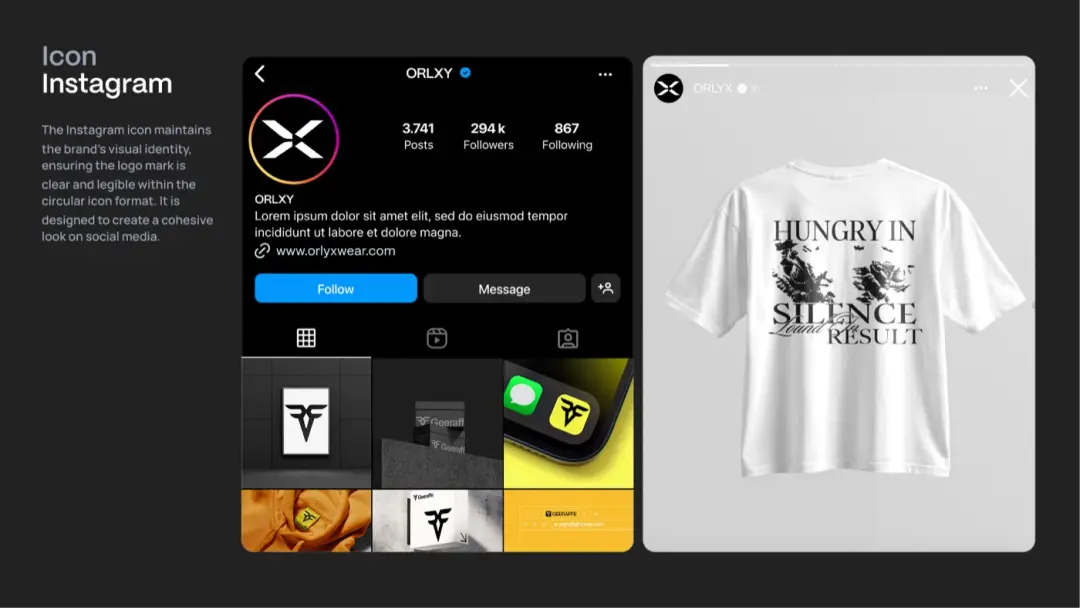
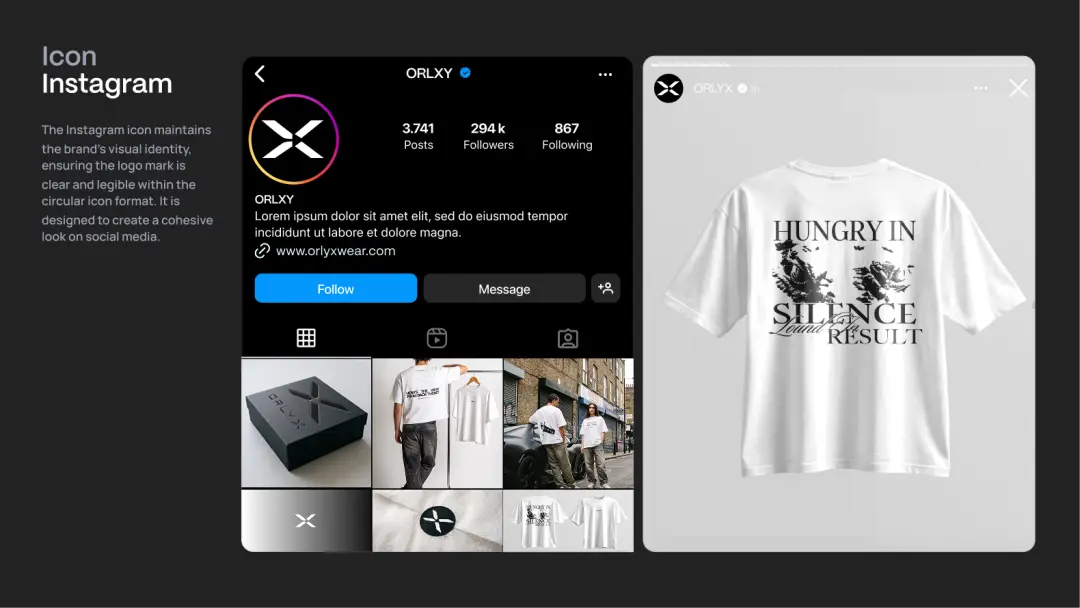
fix: replace slide-12 with corrected high-resolution Instagram board
The previous slide-12 was 1400x787 and its Instagram grid still showed
placeholder imagery from another brand. The new source is 1580x889 and
shows real ORLYX product shots, matching the other refreshed slides.

Repoints all five references, including the showcase card and hero strip
thumbnails, from slide-12.jpg to slide-12.png.

diff --git a/src/data/work.ts b/src/data/work.ts
@@ -170,7 +170,7 @@ export const graphicWork: Project[] = [
       { src: "/work/orlyx/board-01.jpg", alt: "ORLYX brand guide overview board", ratio: 16 / 9 },
       { src: "/work/orlyx/board-02.jpg", alt: "ORLYX brand system board", ratio: 16 / 9 },
       {
-        src: "/work/orlyx/slide-12.jpg",
+        src: "/work/orlyx/slide-12.png",
         alt: "ORLYX Instagram icon and apparel application",
         ratio: 1580 / 889,
       },
@@ -277,7 +277,7 @@ export const mosaicRows: { src: string; alt: string; span: number }[][] = [
   [
     { src: "/work/imagin/cover.jpg", alt: "", span: 2 },
     { src: "/work/posters/poster-05.jpg", alt: "", span: 1 },
-    { src: "/work/orlyx/slide-12.jpg", alt: "", span: 2 },
+    { src: "/work/orlyx/slide-12.png", alt: "", span: 2 },
     { src: "/work/posters/poster-09.jpg", alt: "", span: 1 },
     { src: "/work/wirawiri/mockup.jpg", alt: "", span: 1 },
     { src: "/work/orlyx/slide-14.png", alt: "", span: 2 },
@@ -353,7 +353,7 @@ export const showcaseCards: ShowcaseCard[] = [
   },
   {
     slug: "orlyx",
-    src: "/work/orlyx/slide-12.jpg",
+    src: "/work/orlyx/slide-12.png",
     alt: "ORLYX apparel and social",
     title: "ORLYX Apparel",
     desc: "The mark taken from screen to garment, packaging, and a social feed system.",
@@ -378,7 +378,7 @@ export const heroStrip = [
   { src: "/work/posters/poster-03.jpg", alt: "Poster series", tag: "Poster" },
   { src: "/work/wirawiri/mockup.jpg", alt: "Wira Wiri mockup", tag: "UI/UX" },
   { src: "/work/posters/poster-11.jpg", alt: "Poster series", tag: "Print" },
-  { src: "/work/orlyx/slide-12.jpg", alt: "ORLYX apparel", tag: "Apparel" },
+  { src: "/work/orlyx/slide-12.png", alt: "ORLYX apparel", tag: "Apparel" },
   { src: "/work/posters/poster-05.jpg", alt: "Poster series", tag: "Poster" },
   { src: "/work/orlyx/slide-14.png", alt: "ORLYX packaging", tag: "Brand" },
 ] as const;

diff --git a/src/components/Approach.tsx b/src/components/Approach.tsx
@@ -11,7 +11,7 @@ const PREVIEWS = [
   { src: "/work/orlyx/board-01.jpg", alt: "ORLYX brand guide" },
   { src: "/work/wirawiri/screens.jpg", alt: "Wira Wiri app screens" },
   { src: "/work/imagin/cover.jpg", alt: "Imagin Studio website" },
-  { src: "/work/orlyx/slide-12.jpg", alt: "ORLYX apparel and social" },
+  { src: "/work/orlyx/slide-12.png", alt: "ORLYX apparel and social" },
 ] as const;
 
 const PREVIEW_WIDTH = 260;
